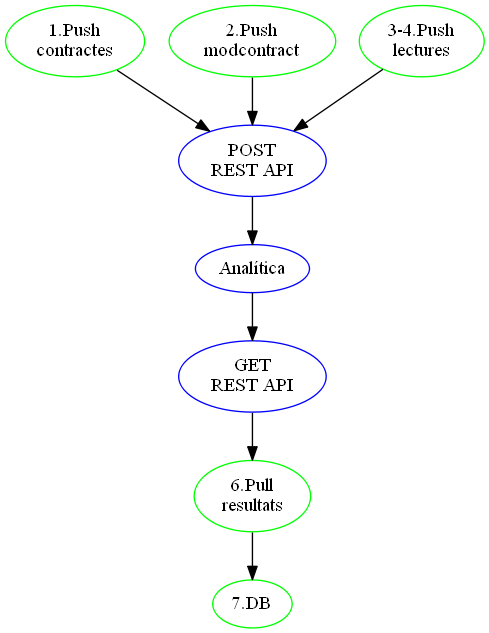
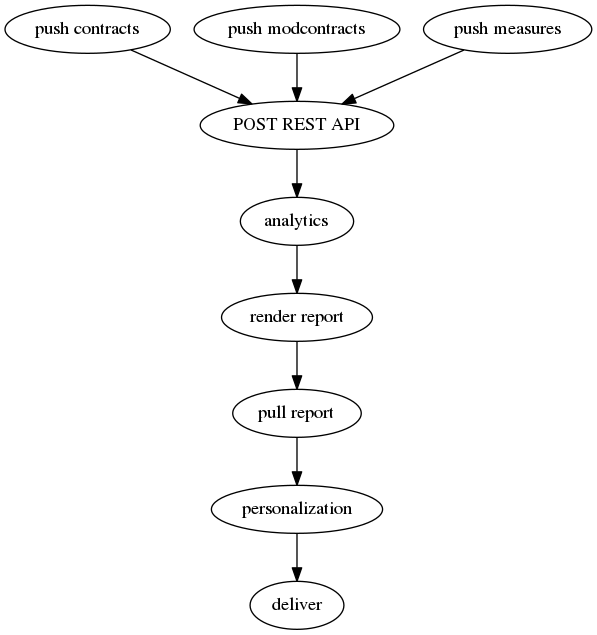
Updated infoenergia description considering tasks done by both SOM and BeeData

diff --git a/docs/internals.md b/docs/internals.md
@@ -10,15 +10,13 @@ Enllaços interessants relacionat amb IEE-Empowering:
 
 
 El servei Infoenergia es divideix en:
-- Procés setmanal
-- API Infoenergia
-- Informe e-mail
-- Apartat Infoenergia oficina virtual
-- Reports setmanals
+- Procés automàtic setmanal
+- Reports automàtic setmanals
+- Procés manual
 
-## Procés setmanal
+## Procés automàtic setmanal
 
-El procés setmanal inclou l'actualització de les dades disponibles per BeeData, execució de l'analítica i baixa de resultats.
+El procés setmanal inclou l'actualització de les dades disponibles per BeeData
 
 ![infoenergia_pushandpull.png](./img/pushandpull.png "")
 
@@ -26,17 +24,13 @@ El procés setmanal inclou l'actualització de les dades disponibles per BeeData
 2. Pujar modificacions contractuals (SOM -> BeeData)
 3. Pujar lectures mensuals (SOM -> BeeData)
 4. Pujar lectures horàries (SOM -> BeeData)
-5. Execució analítica (BeeData)
-6. Baixar resultats (SOM <- BeeData)
-7. Guardar resultats localment (SOM)
 
 ### Descripció
 
-La gestió de la pujada i baixa es fa a través de la llibreria [amoniak](https://github.com/Som-Energia/amoniak "amoniak") que s'executa a partir de diferents workers que es poden visualitzar al gestor de tasques de RQ vinculats a la següents cues:
+La gestió de la pujada de dades es fa a través de la llibreria [amoniak](https://github.com/Som-Energia/amoniak "amoniak") que s'executa a partir de diferents workers que es poden visualitzar al gestor de tasques de RQ vinculats a la següents cues:
 
 - contracts
 - measures
-- sips_measures
 
 La llibreria [amoniak](https://github.com/Som-Energia/amoniak "amoniak") utilitza:
 
@@ -44,9 +38,13 @@ La llibreria [amoniak](https://github.com/Som-Energia/amoniak "amoniak") utilitz
 - Especificació [AMON](https://amee.github.io/AMON/ ""). Defineix el format JSON de les contingut de les peticions
 - [ERP-empowering](https://github.com/Som-Energia/erp-empowering ""). Implementa empowering a l'ERP (gestió de dades, enviament de mails, ...)
 
-Les dades vinculades als contractes i mesures estan gestionades i emmagatzemades per l'ERP (exceptuant horàries), i els resultats de l'analítica estan emmagatzemades pel MongoDB.
+Les dades vinculades als contractes i mesures estan gestionades i emmagatzemades per l'ERP (exceptuant horàries).
 
-_La gestió de la pujada de lectures horàries no es realitza a través de l'API, ni amoniak, si no que es du a terme directament a través de SFTP._
+
+Notes addicionals:
+
+- La gestió de la pujada de lectures horàries no es realitza a través de l'API, ni amoniak, si no que es du a terme directament a través de SFTP
+- La gestió de la baixa d'informes es du a terme directament a través de SFTP
 
 ### Cues
 
@@ -66,10 +64,6 @@ En ambdós casos s'actualitza l'[Etag](https://en.wikipedia.org/wiki/HTTP_ETag "
 Fa una cerca de les noves **lectures de facturació** dels comptadors vinculats als contractes actius (ERP) des de la data de la última pujada associada al comptador. S'extreu la informació vinculada a la lectura (ERP), s'exporta al format AMON i es puja a BeeData (API POST)
 
 Posteriorment s'actualitza la data d'última lectura associada al comptador.
-
-#### sips_measures
-
-Fa una cerca de contractes (ERP) amb el servei Infoenergia actiu i que disposen de dades SIPS (MongoDB) anteriors a la data d'alta del contracte. S'extreu la informació vinculada a les lectures anteriors a la data d'alta (MongoDB), s'exporta al format AMON i es puja a BeeData (API PATCH)
 
 ### Operativa
 
@@ -95,29 +89,20 @@ _00 4 * * 6 sh empowering-scripts/push/push_measures.sh_
 
 L'script afegeix una tasca a la cua **measures** descrita anteriorment
 
-La pujada de lectures des SIPS es fa setmanalment:
-
-_45 1 * * 6 sh empowering-scripts/push/push_sips_measures.sh_
-
-L'script afegeix una tasca a la cua **sips_measures** descrita anteriorment
 
 #### Pujar lectures horàries (SOM -> BeeData)
 
 La implementació està a [Empowering PUSH tg](https://github.com/Som-Energia/cchuploader ""). Permet definir el número de dies històric que es volen subministrar al BeeData utilizant la data de modificació de MongoDB de referència. El sistema extreu les dades en fitxers locals i posteriorment sincronitzac via RSYNC (SFTP) amb el servidor de BeeData.
 
-** WARNING: Pendent de validació per part de BeeData i SOM. Posteriorment caldrà afegir la tasca al crontab pq s'executi periòdicament**
 
-#### Guardar resultats localment (SOM)
+La pujada de lectures es fa setmanalment:
 
-La baixada de resultats es fa setmanalment:
+_45 3 * * 4 sh ~/src/cchuploader/cchuploader/uploader.sh_ 
 
-_00 3 * * 7 sh empowering-scripts/get_ots/get_ots.sh_
-
-L'script afegeix una tasca a la cua **empowering_results_pull*
 
 ## API Infoenergia
 
-Els resultats de l'analitica descarregats en local, aixi com també l'accés a les dades horàries i la informació personal es pot fer a través de l'API infoenergia implementa a [HEMAN REST API](https://github.com/Som-Energia/heman "")
+L'accés a les dades horàries i la informació personal es pot fer a través de l'API infoenergia implementa a [HEMAN REST API](https://github.com/Som-Energia/heman "")
 
 ![infoenergia_schema.png](./img/schema.png "")
 
@@ -130,54 +115,6 @@ L'API esta muntada sobre Flask i permet l'accés autenticat a:
 El conjunt de serveis a l'usuari final utilitzen aquesta REST API.
 
 Per poder fer consultes a aquesta hi ha la llibreria [https://github.com/Som-Energia/ramman](ramman "") que implementa el conjunt de mètodes per fer consultes a l'API.
-
-## Informe e-mail
-
-### Descripció
-
-L'enviament dels informes està implementat dins l'ERP per tal de poder aprofitar les llibreries de generació de PDFs i l'enviament de correus electrònics.
-
-El contingut dels informes està definit en una plantilla .mako vinculada a un plantilla de poweremail anomenada _Enviar report Empowering_.
-
-La plantilla .mako consulta les dades personals a l'ERP i els resultats de l'anàlisi al Heman API Infoenergia.
-
-Amb les dades i la plantilla .mako ([veure mako](https://github.com/gisce/erp/tree/developer/addons/gisce/SomEnergia/som_empowering/report "")) genera el PDF que s'enviarà amb el cos de missatge definit pel poweremail. 
-
-### Operació
-
-L'enviament dels informes es realitza "manualment" i està implementat a [Empowering-scripts](https://github.com/Som-Energia/empowering-scripts/tree/developer/send "").
-
-Com que actualment no s'estan enviant els informes a tothom, la llista de contractes amb el servei d'enviament habilitat estan al .csv del directorti _data_.
-
-L'script d'enviament que actualment s'executa manualment és _send/cli.py_.
-
-```
-python cli.py
-Usage: cli.py [OPTIONS] COMMAND [ARGS]...
-
-Options:
-  --help  Show this message and exit.
-
-Commands:
-  deliver
-  deliver_all
-```
-
-Si s'utiliza la comanda _deliver_ es pot indicar el fitxer amb els contractes als quals es vol enviar l'informe:
-
-```
-
-python cli.py deliver ../data/enabled.csv
-
-```
-
-L'enviament es farà als contractes que compleixin **totes** les condicions:
-
-- Contractes de la llista en cas de la comanda _deliver_ o tots els contractes en cas de _deliver_all_
-- Es disposi de resultats de l'analítica per tots els apartats de l'informe
-- Informe del més anterior a la última lectura disponible. NOTA: En general correspondria a now-2month per assegurar que es disposa de dades entre dos mesos naturals.
-
-Si l'informe s'envia correctament s'actualitzarà el log d'enviament de mails que és accessible des del contracte amb Empowering activat.
 
 
 ## Apartat Infoenergia oficina virtual
@@ -217,3 +154,35 @@ Mandrill
 L'informe s'executa setmanalment
 
 _00 1 * * 1 sh empowering-scripts/status/runner.sh_
+
+## Procés manual
+
+El procés manual es fa periòdicament i correspon a l'execució de la personalització i enviament d'informes 
+
+El procés té les següens etapes:
+
+1. Execució analítica (BeeData)
+2. Generació informes (BeeData)
+3. Descarregar informes (SOM <- BeeData)
+4. Personalització informes (SOM)
+
+La personalització i enviament dels informes es fa a través de la llibreria [shera](https://github.com/abadiabosch/shera)
+Notes addicionals:
+
+
+Per a l'enviament dels informes s'ha d'execuar la següent comanda
+
+```
+   shera deliver_reports
+      --contracts <month.csv> 
+      --reports <folder path> 
+      --template <mako filename path>
+      --output <folder path>
+```
+
+Les opcions d'execució són
+
+- **contracts** Fitxer proporcionat per BeeData amb la informació de l'informe a enviar
+- **reports** Directori amb els informe no-personalitzats en format .pdf
+- **template** Plantilla mako per a la personalització
+- **output** Directori on es guarden els .pdf generats dels informes
